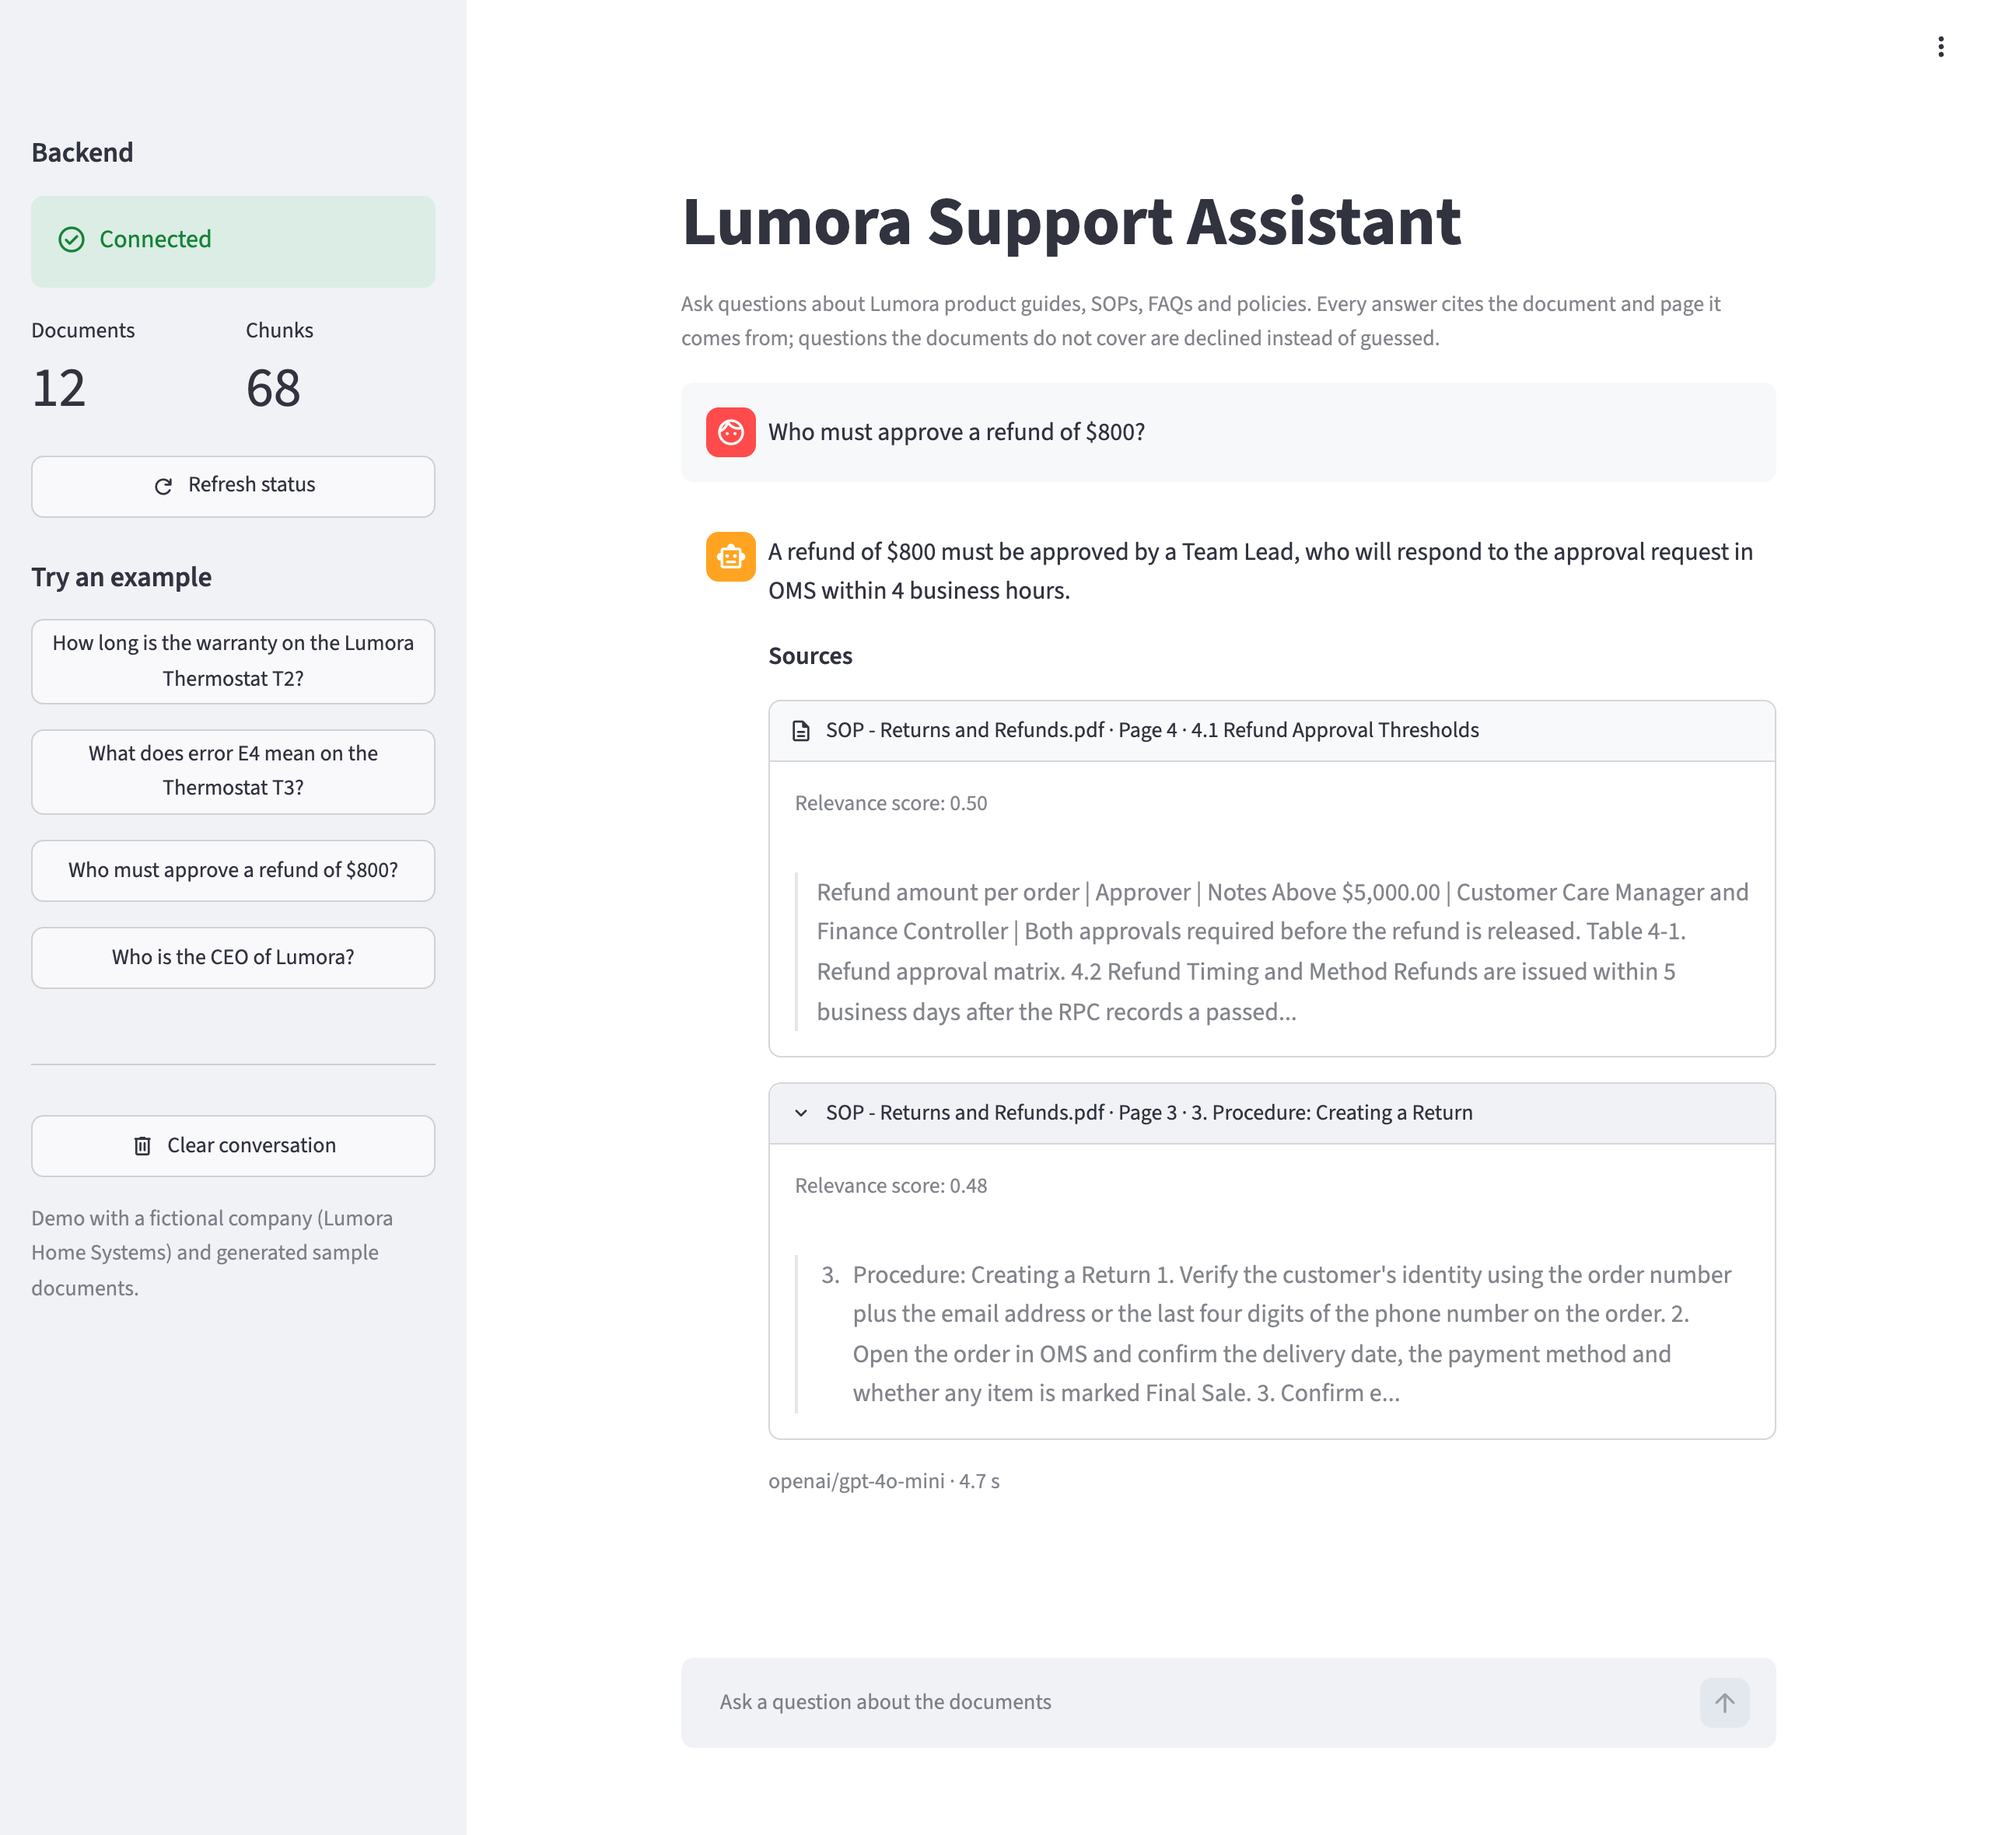
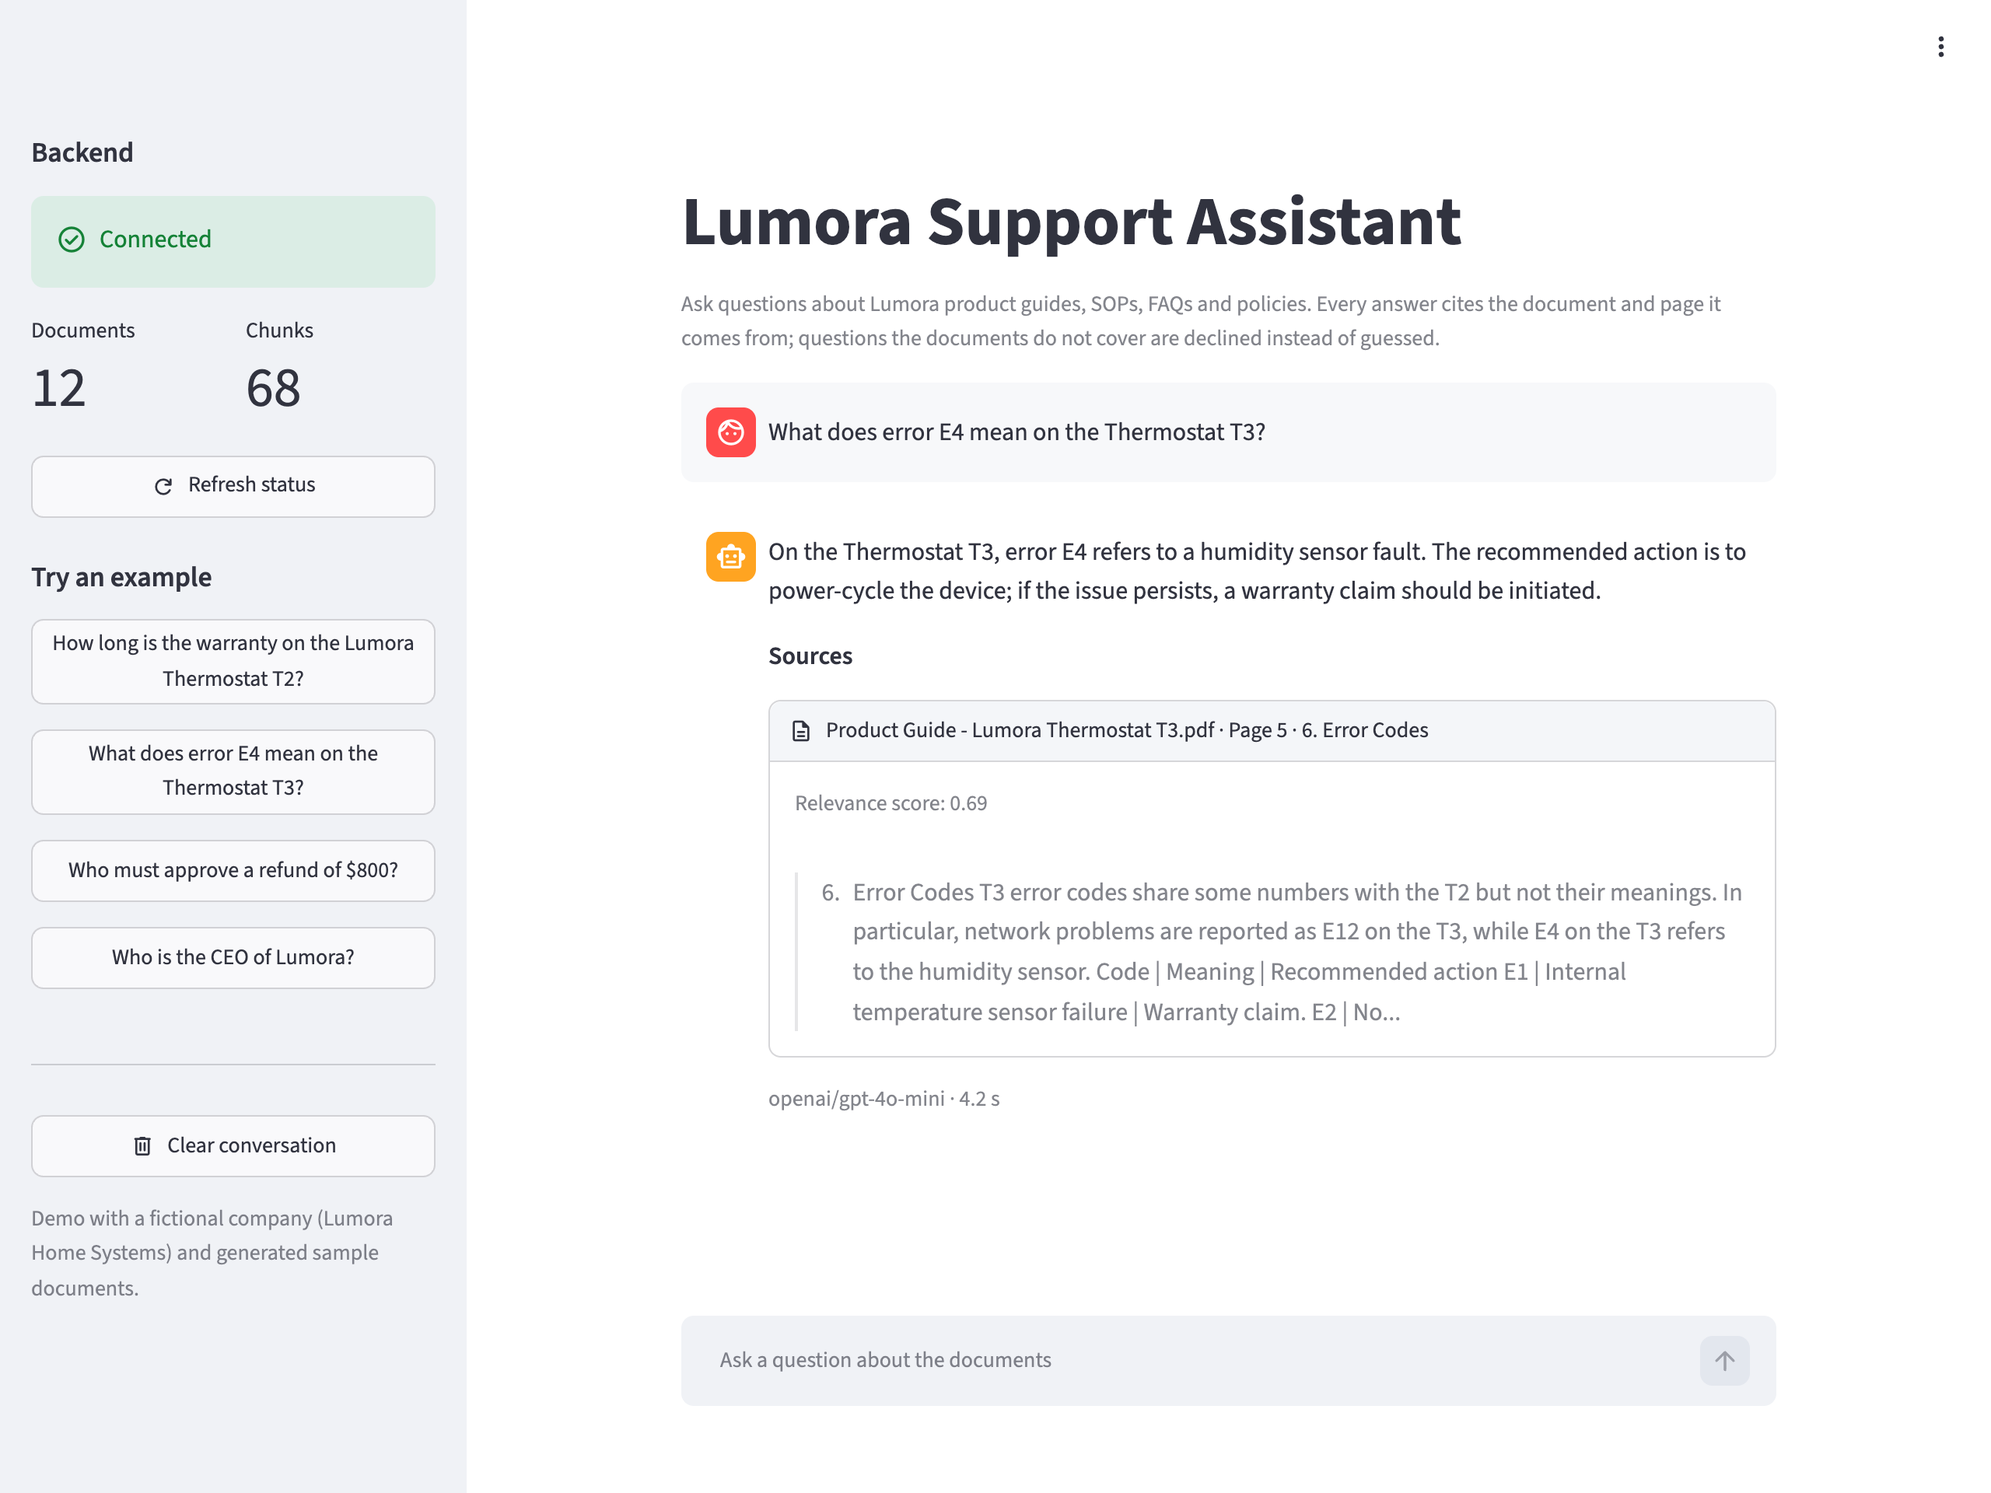
Fix README screenshot captions and citation example
- Hero image alt text now matches chat-ui.png (sources are collapsed there).
- Replace citations.png with the T3 error E4 example: its quoted passage
  contains the answer, so readers can verify the citation from the image.
  The previous refund example cited the continuation page of a split table,
  whose snippet did not show the Team Lead row.
- Use the same example in the Loom script.

diff --git a/docs/LOOM_SCRIPT.md b/docs/LOOM_SCRIPT.md
@@ -32,17 +32,18 @@ Everything you see runs locally with one `docker compose` command."
 
 ## 2. A normal answer with citations (0:30-1:30)
 
-[Click the example "Who must approve a refund of $800?"]
+[Click the example "What does error E4 mean on the Thermostat T3?"]
 
-"Let's ask a typical agent question: who must approve a refund of 800 dollars?"
+"Let's ask a typical agent question: what does error E4 mean on the Thermostat T3?"
 
-[Wait for the answer. Expand both sources.]
+[Wait for the answer. Expand the source.]
 
-"The answer is a Team Lead, within four business hours. Below it are the sources: the
-Returns and Refunds SOP, page 4, section 4.1, with the passage the answer came from and a
-relevance score. The model never writes the citation itself: it only returns the IDs of the
-passages it used, and the code turns those into document and page. So a citation can't point
-to a page that doesn't exist."
+"E4 on the T3 is a humidity sensor fault: power-cycle, and if it persists, start a warranty
+claim. This is a tricky one, because E4 means something different on the T2, and the answer
+picks the right model. Below it is the source: the T3 product guide, page 5, section 6, with
+the passage the answer came from and a relevance score. The model never writes the citation
+itself: it only returns the IDs of the passages it used, and the code turns those into
+document and page. So a citation can't point to a page that doesn't exist."
 
 [Type: "How long is the warranty on the Lumora Thermostat T2?" Then: "And on the T3?"]
 

diff --git a/README.md b/README.md
@@ -8,7 +8,7 @@ Built with Python, LangChain, OpenAI, ChromaDB, FastAPI, Streamlit and Docker. T
 with 12 PDFs of a fictional smart-home company (Lumora Home Systems): product guides, SOPs,
 FAQs and a warranty policy, about 63 pages in total.
 
-![Chat UI: an answer with its cited sources expanded](docs/images/chat-ui.png)
+![Chat UI: a warranty question and the follow-up "And on the T3?", each answered with its cited sources (document, page and section)](docs/images/chat-ui.png)
 
 **Highlights**
 
@@ -26,7 +26,7 @@ FAQs and a warranty policy, about 63 pages in total.
 
 | Citations, expanded | Declining an out-of-scope question |
 |---|---|
-| ![Answer to "Who must approve a refund of $800?" with both cited passages expanded, showing document, page, section, relevance score and the quoted text](docs/images/citations.png) | ![The assistant declines "Who is the CEO of Lumora?" because the documents do not cover it](docs/images/refusal.png) |
+| ![Answer to "What does error E4 mean on the Thermostat T3?" with its source expanded: T3 product guide, page 5, section 6 Error Codes, relevance score 0.69 and the quoted passage that says E4 on the T3 refers to the humidity sensor](docs/images/citations.png) | ![The assistant declines "Who is the CEO of Lumora?" because the documents do not cover it](docs/images/refusal.png) |
 
 The evaluation report (excerpt of [eval/reports/summary.md](eval/reports/summary.md)):
 
